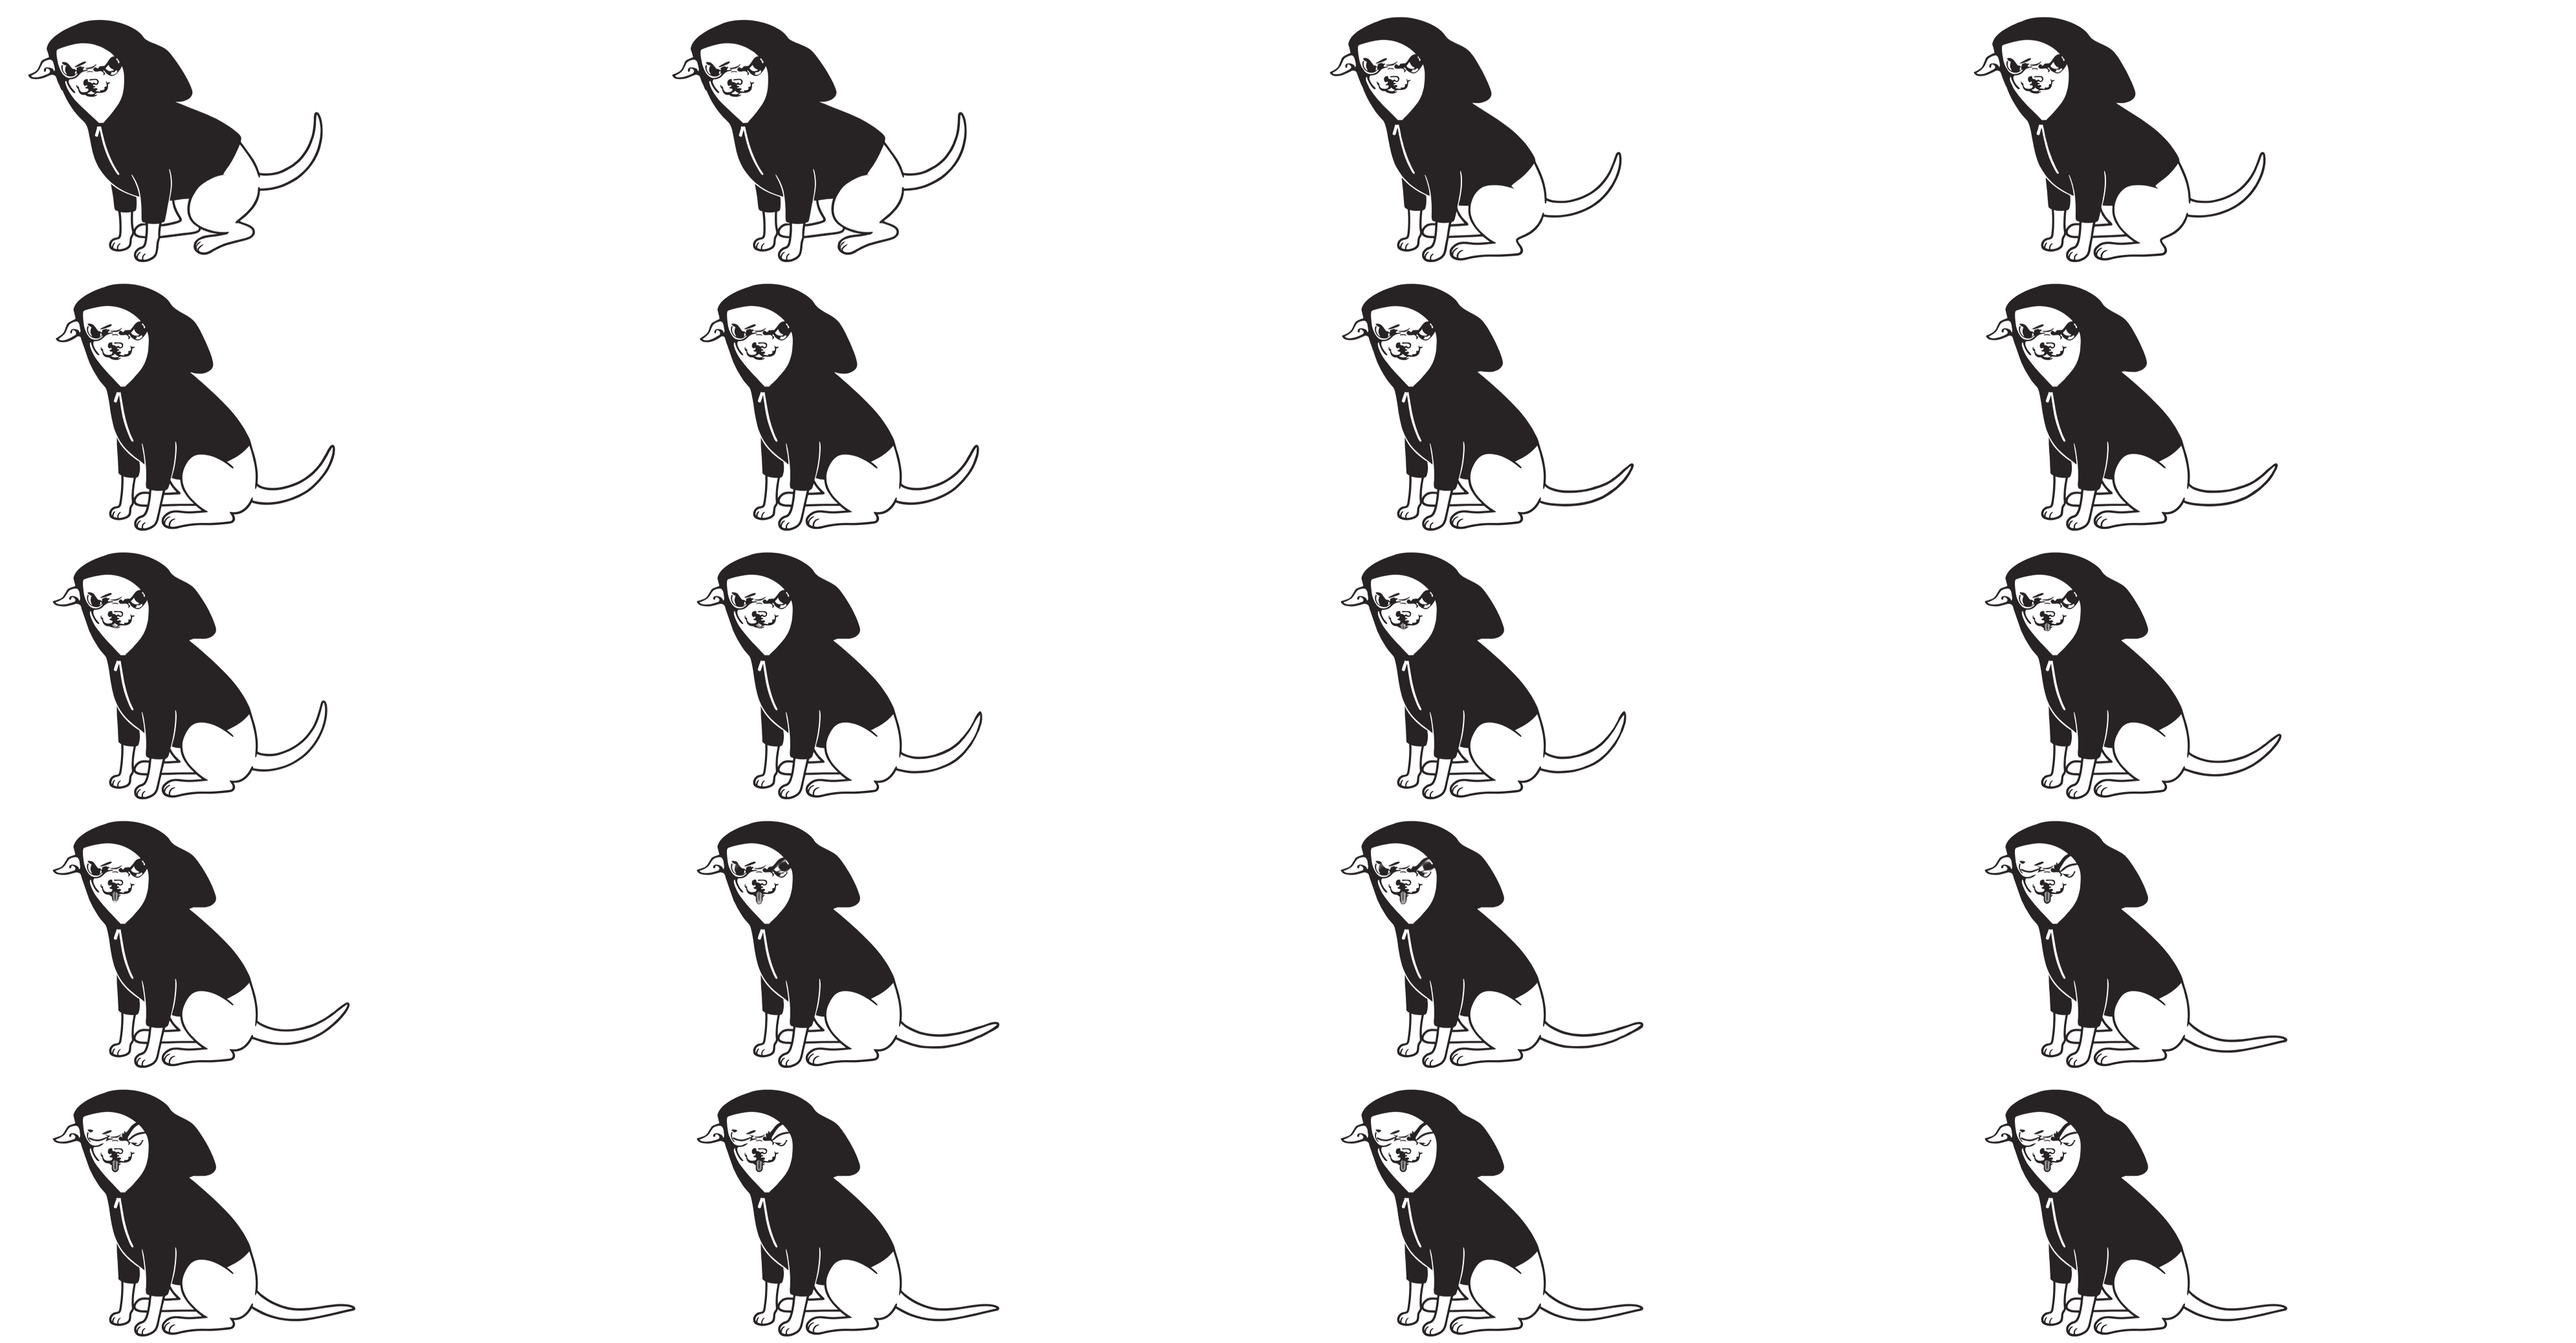
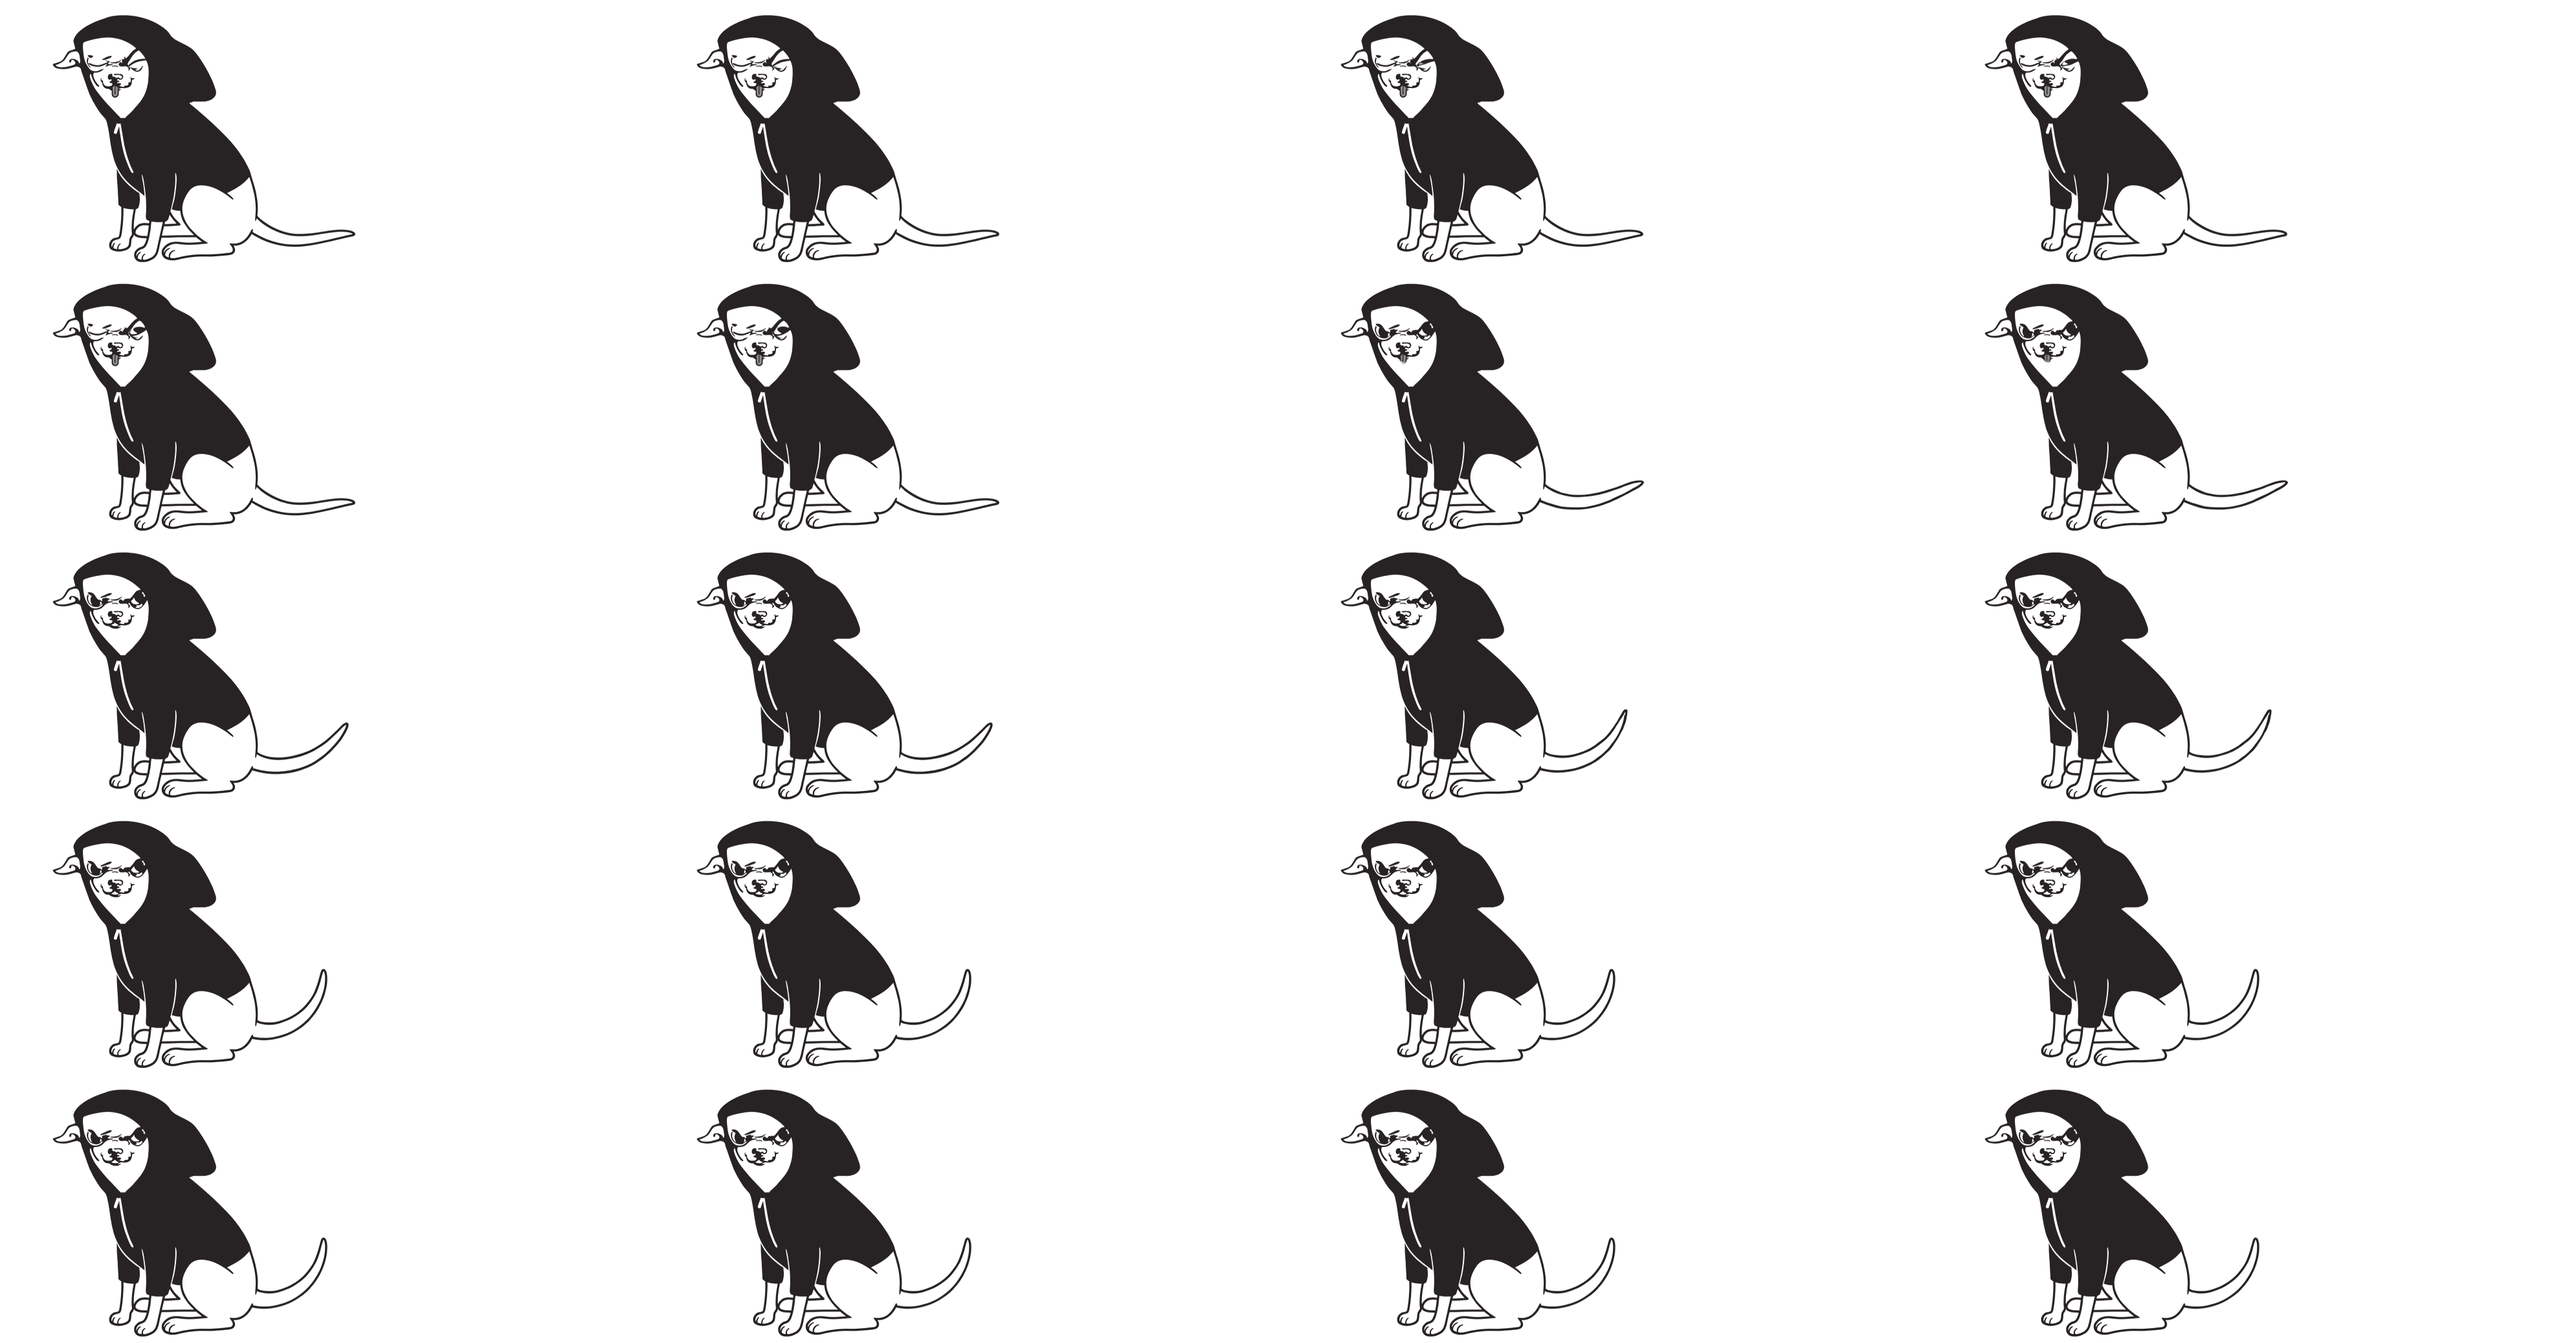
Dog film: every part at its original speed

diff --git a/index.html b/index.html
@@ -684,7 +684,7 @@ function renderDog(alt = COPY.dogAlt) {
    The sitting dog it ends on is a still (media/piesek-siedzi.webp) with Jana's
    original head; the tongue, the lid and the pupils sit on it, placed with
    DOG_STAGE.grid (the same 1357 x 1072 grid as the dog above). */
-const DOG_STAGE = { walkFrom: 489, walkEnd: 84, w: 995, h: 415, frames: 153, cols: 4, rows: 5, sheets: 8, fps: 24,
+const DOG_STAGE = { walkFrom: 489, walkEnd: 52, w: 995, h: 415, frames: 122, cols: 4, rows: 5, sheets: 7, fps: 24,
   still: [76.67, 18.67, 434.07, 391.4], grid: [0.265595, 39.599, -10.698] };
 function renderWalkingDog(alt = COPY.dogAlt) {
   const S = DOG_STAGE, [x, y, w, h] = S.still;
@@ -730,7 +730,7 @@ function dogWalk() {
   };
   for (let n = 1; n <= S.sheets; n++) {
     const im = new Image();
-    im.src = `media/piesek-wejscie-${n}.webp`;
+    im.src = `media/piesek-wejscie-${n}.webp?v=6`;   // ?v= makes browsers fetch new frames after an update
     imgs.push(im);
   }
   // wait for every sheet to load and (where the browser allows) to decode, but

diff --git a/kursor.html b/kursor.html
@@ -684,7 +684,7 @@ function renderDog(alt = COPY.dogAlt) {
    The sitting dog it ends on is a still (media/piesek-siedzi.webp) with Jana's
    original head; the tongue, the lid and the pupils sit on it, placed with
    DOG_STAGE.grid (the same 1357 x 1072 grid as the dog above). */
-const DOG_STAGE = { walkFrom: 489, walkEnd: 84, w: 995, h: 415, frames: 153, cols: 4, rows: 5, sheets: 8, fps: 24,
+const DOG_STAGE = { walkFrom: 489, walkEnd: 52, w: 995, h: 415, frames: 122, cols: 4, rows: 5, sheets: 7, fps: 24,
   still: [76.67, 18.67, 434.07, 391.4], grid: [0.265595, 39.599, -10.698] };
 function renderWalkingDog(alt = COPY.dogAlt) {
   const S = DOG_STAGE, [x, y, w, h] = S.still;
@@ -730,7 +730,7 @@ function dogWalk() {
   };
   for (let n = 1; n <= S.sheets; n++) {
     const im = new Image();
-    im.src = `media/piesek-wejscie-${n}.webp`;
+    im.src = `media/piesek-wejscie-${n}.webp?v=6`;   // ?v= makes browsers fetch new frames after an update
     imgs.push(im);
   }
   // wait for every sheet to load and (where the browser allows) to decode, but

diff --git a/oddech.html b/oddech.html
@@ -684,7 +684,7 @@ function renderDog(alt = COPY.dogAlt) {
    The sitting dog it ends on is a still (media/piesek-siedzi.webp) with Jana's
    original head; the tongue, the lid and the pupils sit on it, placed with
    DOG_STAGE.grid (the same 1357 x 1072 grid as the dog above). */
-const DOG_STAGE = { walkFrom: 489, walkEnd: 84, w: 995, h: 415, frames: 153, cols: 4, rows: 5, sheets: 8, fps: 24,
+const DOG_STAGE = { walkFrom: 489, walkEnd: 52, w: 995, h: 415, frames: 122, cols: 4, rows: 5, sheets: 7, fps: 24,
   still: [76.67, 18.67, 434.07, 391.4], grid: [0.265595, 39.599, -10.698] };
 function renderWalkingDog(alt = COPY.dogAlt) {
   const S = DOG_STAGE, [x, y, w, h] = S.still;
@@ -730,7 +730,7 @@ function dogWalk() {
   };
   for (let n = 1; n <= S.sheets; n++) {
     const im = new Image();
-    im.src = `media/piesek-wejscie-${n}.webp`;
+    im.src = `media/piesek-wejscie-${n}.webp?v=6`;   // ?v= makes browsers fetch new frames after an update
     imgs.push(im);
   }
   // wait for every sheet to load and (where the browser allows) to decode, but
